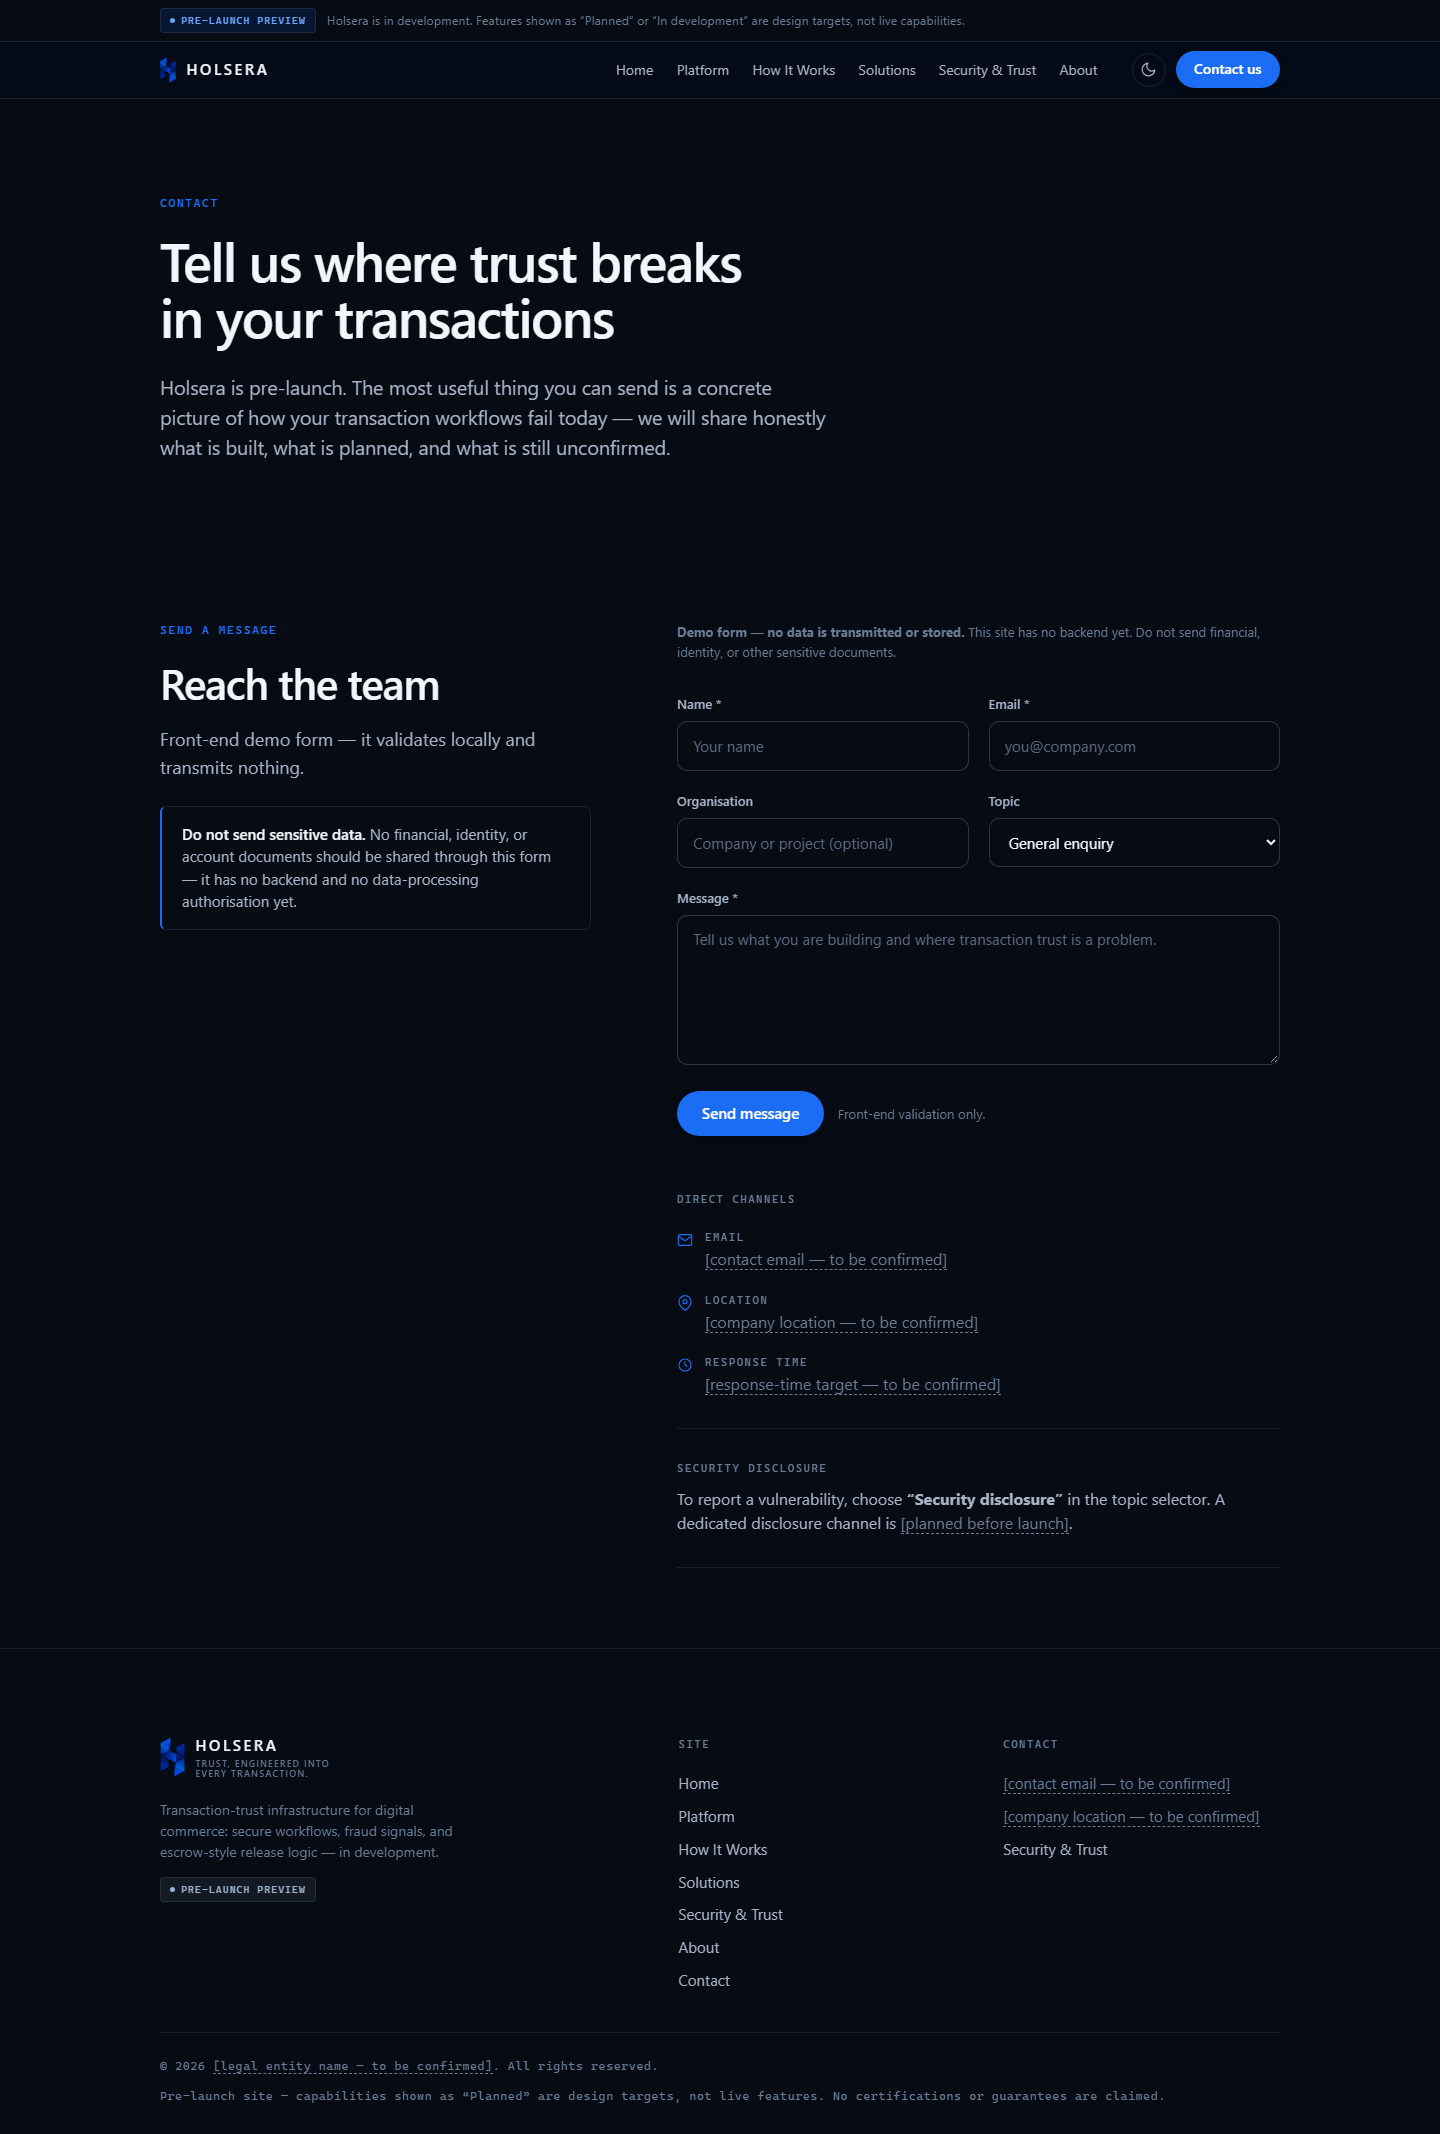
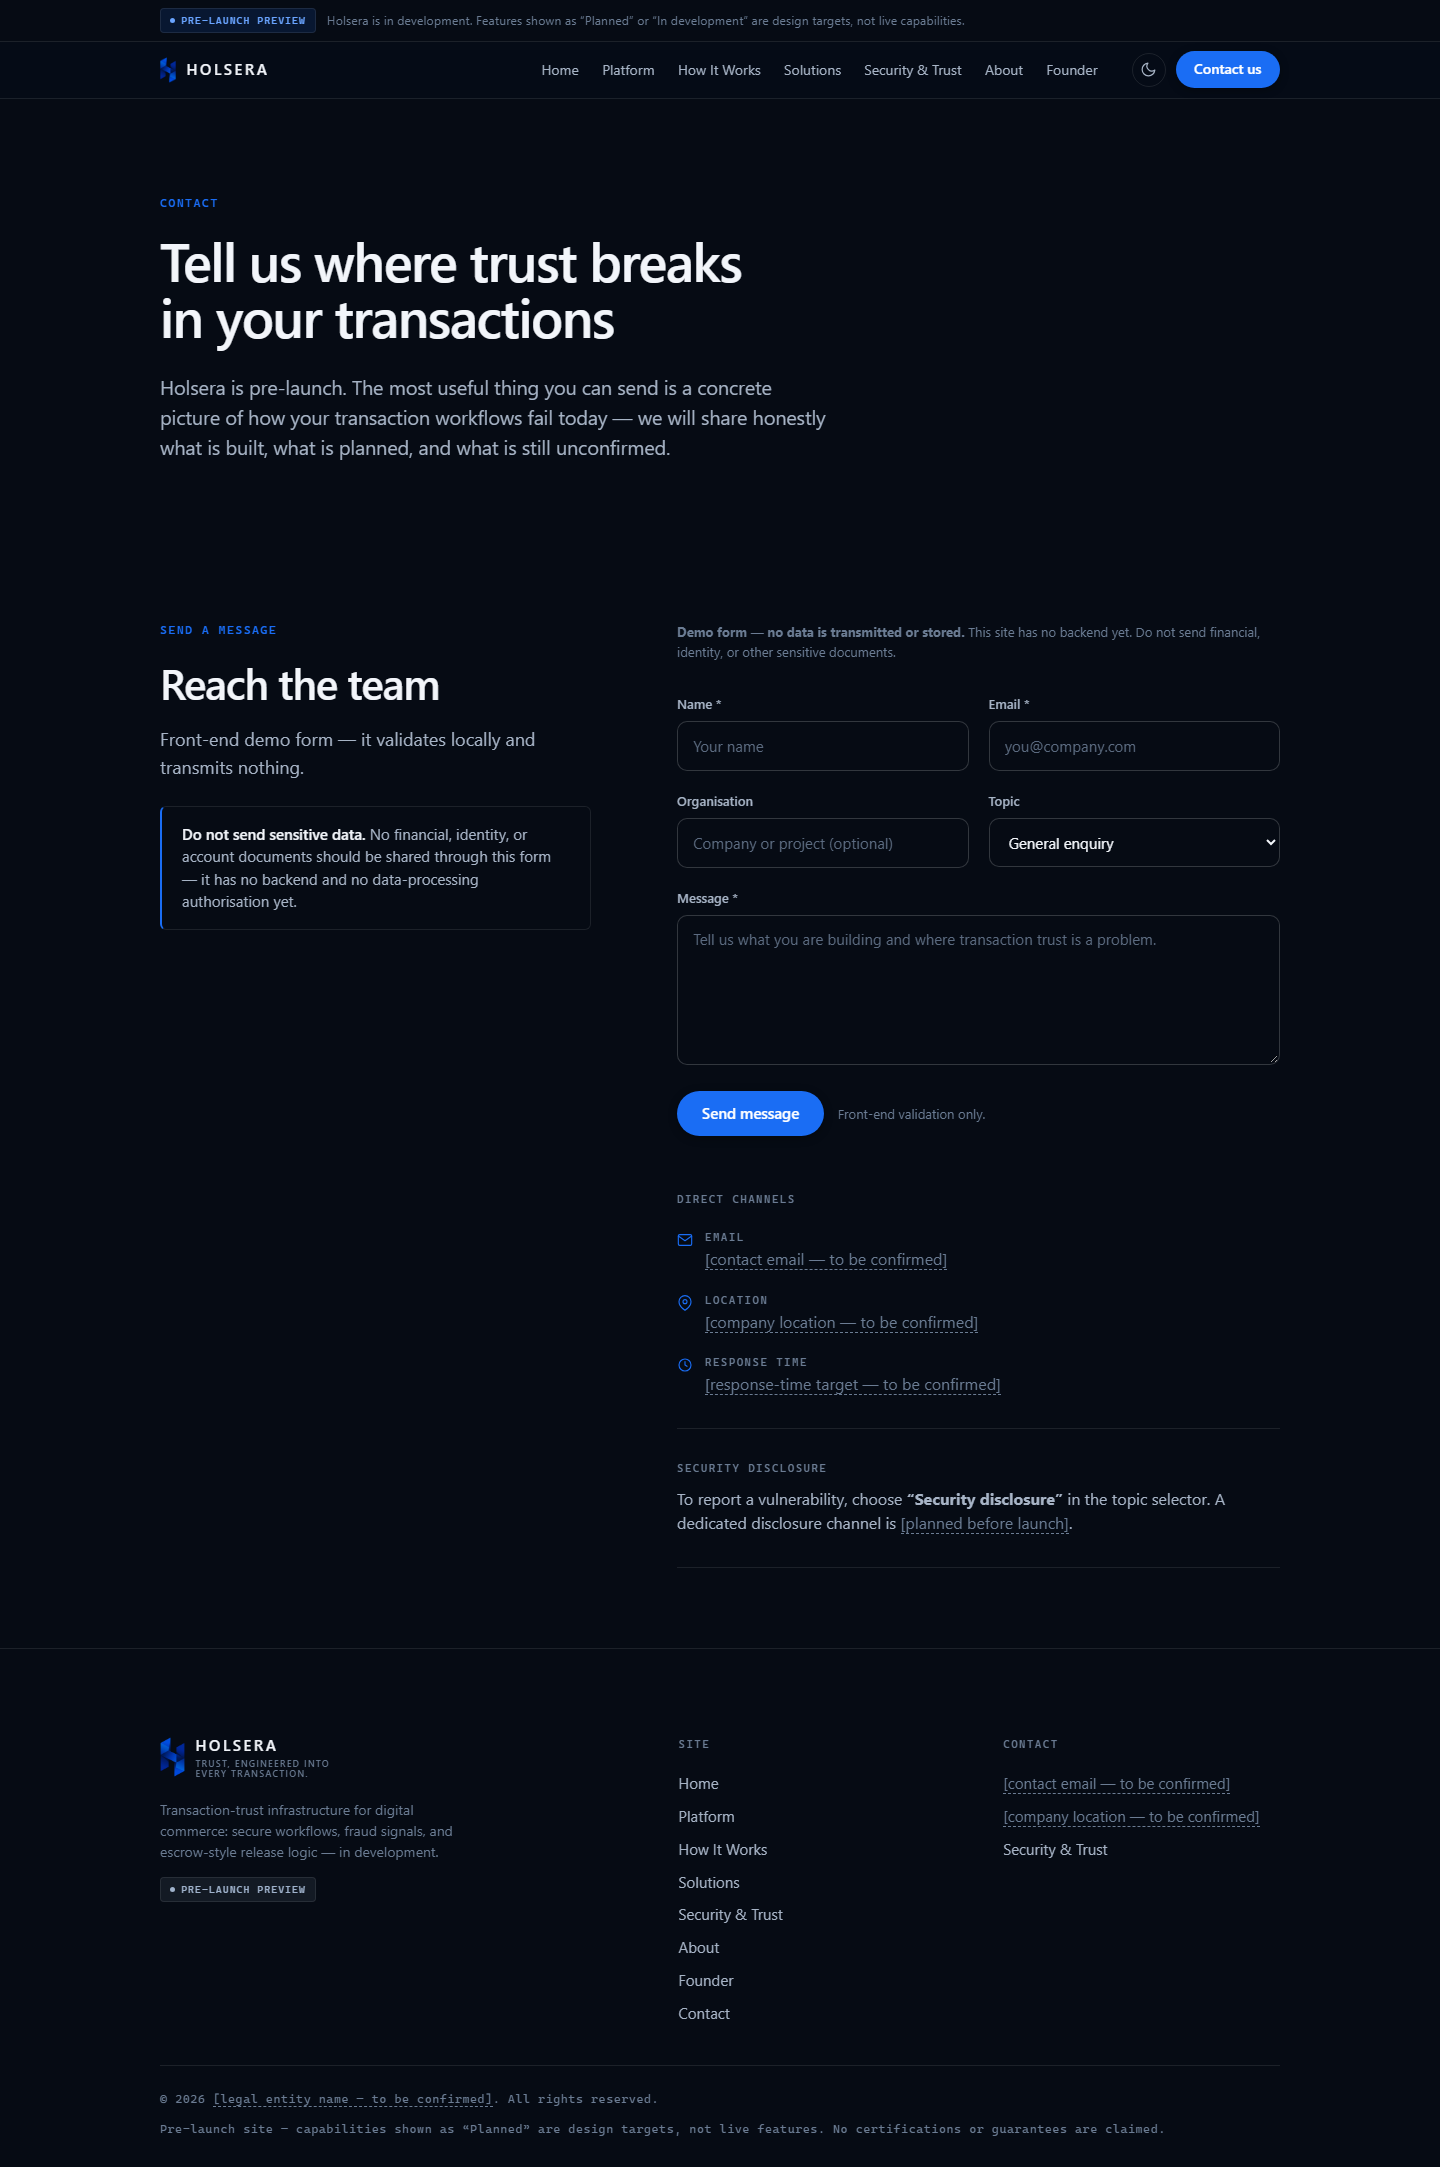
Add Founder tab: dedicated founder profile page + short bio on About

diff --git a/src/app/founder/page.tsx b/src/app/founder/page.tsx
@@ -1,0 +1,161 @@
+import type { Metadata } from 'next';
+import Link from 'next/link';
+import CtaBand from '@/components/CtaBand';
+import Icon from '@/components/Icon';
+import Reveal from '@/components/Reveal';
+import SectionHeading from '@/components/SectionHeading';
+
+export const metadata: Metadata = {
+  title: 'Founder',
+  description:
+    'Khalifa is the founder and CEO of Holsera, driven by a vision to redefine digital trust through cybersecurity and secure transaction technology.',
+  alternates: { canonical: '/founder/' },
+};
+
+export default function FounderPage() {
+  return (
+    <>
+      {/* ---------- Hero: the short profile ---------- */}
+      <section className="hero hero--page">
+        <div className="container">
+          <span className="eyebrow">Founder &amp; CEO</span>
+          <h1>Khalifa — Founder &amp; CEO of Holsera</h1>
+          <p className="lead hero__lead">
+            Khalifa is the founder and CEO of Holsera, driven by a vision to redefine
+            digital trust through cybersecurity and secure transaction technology.
+            Focused on bridging the gap between digital convenience and security, he
+            leads Holsera&apos;s mission to make online transactions safer, more
+            transparent, and more reliable through integrated cybersecurity, escrow
+            solutions, and fraud prevention.
+          </p>
+          <div className="btn-row">
+            <Link href="/about/" className="btn btn--primary">
+              About Holsera
+              <Icon name="arrow-right" size={17} />
+            </Link>
+            <Link href="/contact/" className="btn btn--secondary">
+              Contact us
+            </Link>
+          </div>
+        </div>
+      </section>
+
+      {/* ---------- Profile + editable details ---------- */}
+      <section className="band band--tight" aria-labelledby="profile">
+        <div className="container">
+          <div className="editorial">
+            <Reveal className="editorial__side">
+              <div className="asset-card">
+                <div className="monogram" aria-hidden="true">
+                  K
+                </div>
+                <div style={{ textAlign: 'center' }}>
+                  <h3 style={{ margin: 0 }}>Khalifa</h3>
+                  <span className="mono-label">Founder &amp; CEO · Holsera</span>
+                </div>
+                <div className="mockup__caption">
+                  <span className="mockup-label">Profile</span>
+                  <p>Photograph and full name to be supplied before launch.</p>
+                </div>
+              </div>
+            </Reveal>
+            <Reveal className="stack">
+              <SectionHeading
+                id="profile"
+                eyebrow="Profile"
+                title="The person behind the mission"
+              />
+              <div className="placeholder-block">
+                <b>Editable placeholders — founder details.</b> Replace each item with
+                confirmed information before launch, and never with unverified claims.
+                <br />
+                <br />
+                <span className="ph">[Full name — to be supplied]</span>
+                <br />
+                <span className="ph">[Location — to be supplied]</span>
+                <br />
+                <span className="ph">[Email — to be supplied]</span>
+                <br />
+                <span className="ph">[LinkedIn / professional profiles — to be supplied]</span>
+                <br />
+                <span className="ph">
+                  [Certifications &amp; professional background — to be supplied]
+                </span>
+                <br />
+                <span className="ph">[Photograph — to be supplied]</span>
+              </div>
+            </Reveal>
+          </div>
+        </div>
+      </section>
+
+      {/* ---------- Long-form biography ---------- */}
+      <section className="band band--soft" aria-labelledby="biography">
+        <div className="container container--narrow">
+          <Reveal>
+            <SectionHeading
+              id="biography"
+              eyebrow="Biography"
+              title="Trust, as something you build — not something you promise"
+            />
+          </Reveal>
+          <Reveal>
+            <div className="prose">
+              <p>
+                Khalifa is the Founder and CEO of Holsera, a technology venture built
+                around a fundamental belief: trust should be engineered into every
+                digital transaction.
+              </p>
+              <p>
+                With a strong interest in cybersecurity, digital innovation, and secure
+                financial technology, Khalifa founded Holsera with a clear vision — to
+                help create a digital environment where businesses and individuals can
+                interact with greater confidence, security, and transparency.
+              </p>
+              <p>
+                His vision brings together cybersecurity, secure payments, escrow
+                technology, and fraud prevention to address one of the most important
+                challenges in the digital economy: establishing trust between parties
+                who may never meet in person.
+              </p>
+              <p>
+                The idea for Holsera originated in 2020 and has since grown into the
+                venture described across this site — a product still in development,
+                presented with explicit statuses rather than marketing claims.
+              </p>
+              <p>
+                As the driving force behind Holsera, Khalifa focuses on building a
+                company where security is not an afterthought, but a core principle
+                embedded in every product, process, and user experience. His approach
+                combines long-term strategic thinking with a commitment to developing
+                practical technologies that solve real-world problems.
+              </p>
+              <p>
+                For Khalifa, Holsera represents more than a technology company. It is a
+                long-term mission to make digital commerce safer, more reliable, and
+                more accessible.
+              </p>
+            </div>
+          </Reveal>
+        </div>
+      </section>
+
+      {/* ---------- Vision statement ---------- */}
+      <section className="band band--deep band--tight" aria-label="Vision">
+        <div className="container container--narrow" style={{ textAlign: 'center' }}>
+          <Reveal>
+            <p className="pull-quote">Build technology people can trust.</p>
+            <span className="mono-label">The vision behind Holsera</span>
+          </Reveal>
+        </div>
+      </section>
+
+      <CtaBand
+        title="Holsera is pre-launch — and that is deliberate"
+        text="No fabricated traction, no invented customers. If transaction trust matters to your business, the most useful thing you can send is a concrete picture of where trust breaks in your workflows today."
+        primary={{ href: '/contact/', label: 'Talk to us' }}
+        secondary={{ href: '/security-trust/', label: 'Security approach' }}
+      />
+    </>
+  );
+}

diff --git a/src/app/about/page.tsx b/src/app/about/page.tsx
@@ -1,5 +1,7 @@
 import type { Metadata } from 'next';
+import Link from 'next/link';
 import CtaBand from '@/components/CtaBand';
+import Icon from '@/components/Icon';
 import { asset } from '@/lib/asset';
 import { LogoLockup } from '@/components/Logo';
 import Reveal from '@/components/Reveal';
@@ -105,7 +107,44 @@ export default function AboutPage() {
         </div>
       </section>
 
-      <section className="band" id="values" aria-labelledby="values-h">
+      {/* ---------- Leadership: founder short profile ---------- */}
+      <section className="band" aria-labelledby="leadership">
+        <div className="container">
+          <div className="editorial">
+            <Reveal className="editorial__side">
+              <SectionHeading
+                id="leadership"
+                eyebrow="Leadership"
+                title="Khalifa — Founder &amp; CEO"
+              />
+              <Link href="/founder/" className="arrow-link">
+                Read the full founder profile
+                <Icon name="arrow-right" size={15} />
+              </Link>
+            </Reveal>
+            <Reveal>
+              <div className="prose">
+                <p>
+                  <strong style={{ color: 'var(--text)' }}>Khalifa</strong> is the
+                  founder and CEO of Holsera, driven by a vision to redefine digital
+                  trust through cybersecurity and secure transaction technology.
+                </p>
+                <p>
+                  Focused on bridging the gap between digital convenience and security,
+                  he leads Holsera&apos;s mission to make online transactions safer,
+                  more transparent, and more reliable through integrated
+                  cybersecurity, escrow solutions, and fraud prevention.
+                </p>
+                <p>
+                  His vision is simple: build technology people can trust.
+                </p>
+              </div>
+            </Reveal>
+          </div>
+        </div>
+      </section>
+
+      <section className="band band--soft" id="values" aria-labelledby="values-h">
         <div className="container">
           <Reveal>
             <SectionHeading

diff --git a/src/app/globals.css b/src/app/globals.css
@@ -1666,7 +1666,7 @@ hr {
   gap: 0.5rem;
 }
 
-/* Brand asset showcase (About) */
+/* Brand asset showcase (About) + founder profile card */
 .asset-card {
   display: grid;
   place-items: center;
@@ -1675,6 +1675,51 @@ hr {
   border: 1px solid var(--line);
   border-radius: 14px;
   background: var(--bg-soft);
+}
+
+/* Typographic monogram — honest stand-in until a photo exists. */
+.monogram {
+  width: 148px;
+  aspect-ratio: 1;
+  border-radius: 20px;
+  background: var(--cta-grad);
+  color: #ffffff;
+  display: grid;
+  place-items: center;
+  font-size: 4.25rem;
+  font-weight: 600;
+  letter-spacing: -0.02em;
+  line-height: 1;
+  box-shadow: var(--shadow-lg);
+  user-select: none;
+}
+
+/* Vision pull-quote (inverted band) */
+.pull-quote {
+  color: #ffffff;
+  font-size: clamp(1.6rem, 3.2vw, 2.3rem);
+  font-weight: 600;
+  letter-spacing: -0.022em;
+  line-height: 1.25;
+  max-width: 24ch;
+  margin: 0 auto 1.5rem;
+  text-wrap: balance;
+}
+
+/* Long-form biography reading column */
+.prose {
+  font-size: 1.0625rem;
+  line-height: 1.65;
+  color: var(--text-2);
+  max-width: 68ch;
+}
+
+.prose p {
+  margin: 0 0 1.25em;
+}
+
+.prose p:last-child {
+  margin-bottom: 0;
 }
 
 .asset-card .mockup__caption {

diff --git a/src/lib/nav.ts b/src/lib/nav.ts
@@ -10,6 +10,7 @@ export const navLinks: NavLink[] = [
   { href: '/solutions/', label: 'Solutions' },
   { href: '/security-trust/', label: 'Security & Trust' },
   { href: '/about/', label: 'About' },
+  { href: '/founder/', label: 'Founder' },
 ];
 
 export const allPages: NavLink[] = [...navLinks, { href: '/contact/', label: 'Contact' }];

diff --git a/README.md b/README.md
@@ -28,7 +28,8 @@ checklist below is completed.**
 | `/how-it-works/`  | Five-stage workflow, transaction states table, record explanation   |
 | `/solutions/`     | Target customer segments — challenges & intended approach           |
 | `/security-trust/`| Design principles, honest security posture table, explicit non-claims |
-| `/about/`         | Mission, founding-story placeholder, working standards              |
+| `/about/`         | Mission, founding-story placeholder, leadership short bio, working standards |
+| `/founder/`       | Founder profile: short + long biography, editable detail placeholders |
 | `/contact/`       | Front-end demo form (no backend), placeholder contact channels      |
 | `404`             | Custom not-found page                                               |
 

diff --git a/COMPLETION_REPORT.md b/COMPLETION_REPORT.md
@@ -11,7 +11,7 @@
 | Check                              | Result                                             |
 | ---------------------------------- | -------------------------------------------------- |
 | `npm run build` (Next.js 15.5.28)  | ✅ Passes — compile, type-check, static export      |
-| Static export (`out/`)             | ✅ 14 routes: 7 pages, 404, icon, OG image, robots, sitemap |
+| Static export (`out/`)             | ✅ 12 routes: 8 pages (incl. `/founder/`), 404, icon, robots, sitemap |
 | First Load JS per page             | ✅ ~103–107 kB shared (optimized)                   |
 | Console errors (browser probe)     | ✅ 0 on light + dark                               |
 | Fonts                              | ✅ Montserrat self-hosted (5 woff2, no external requests) |
